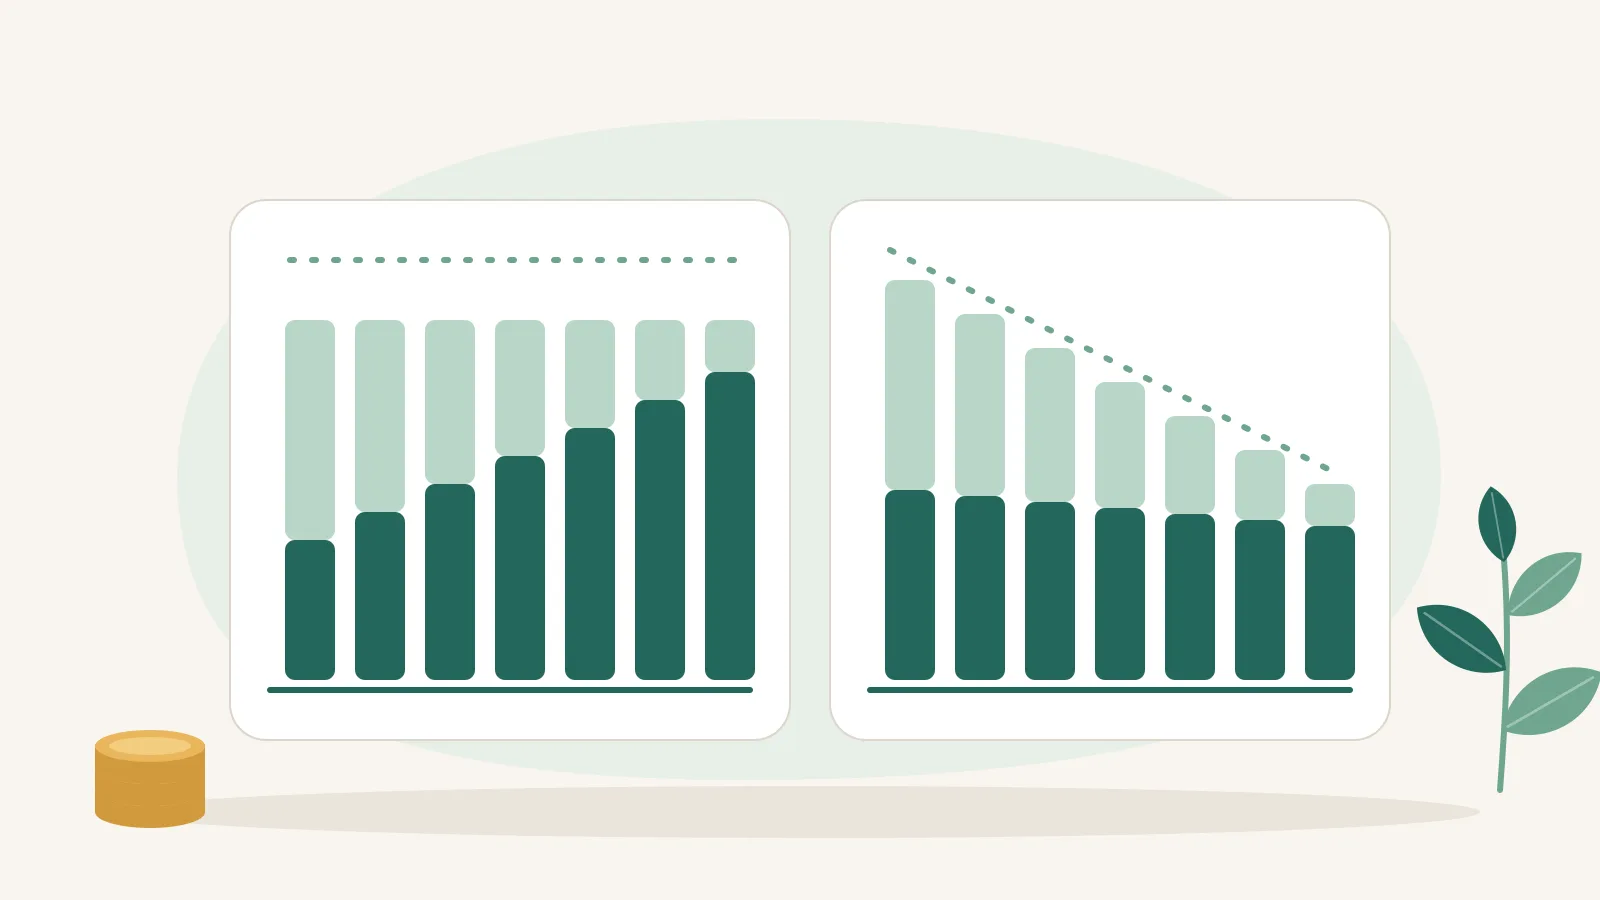
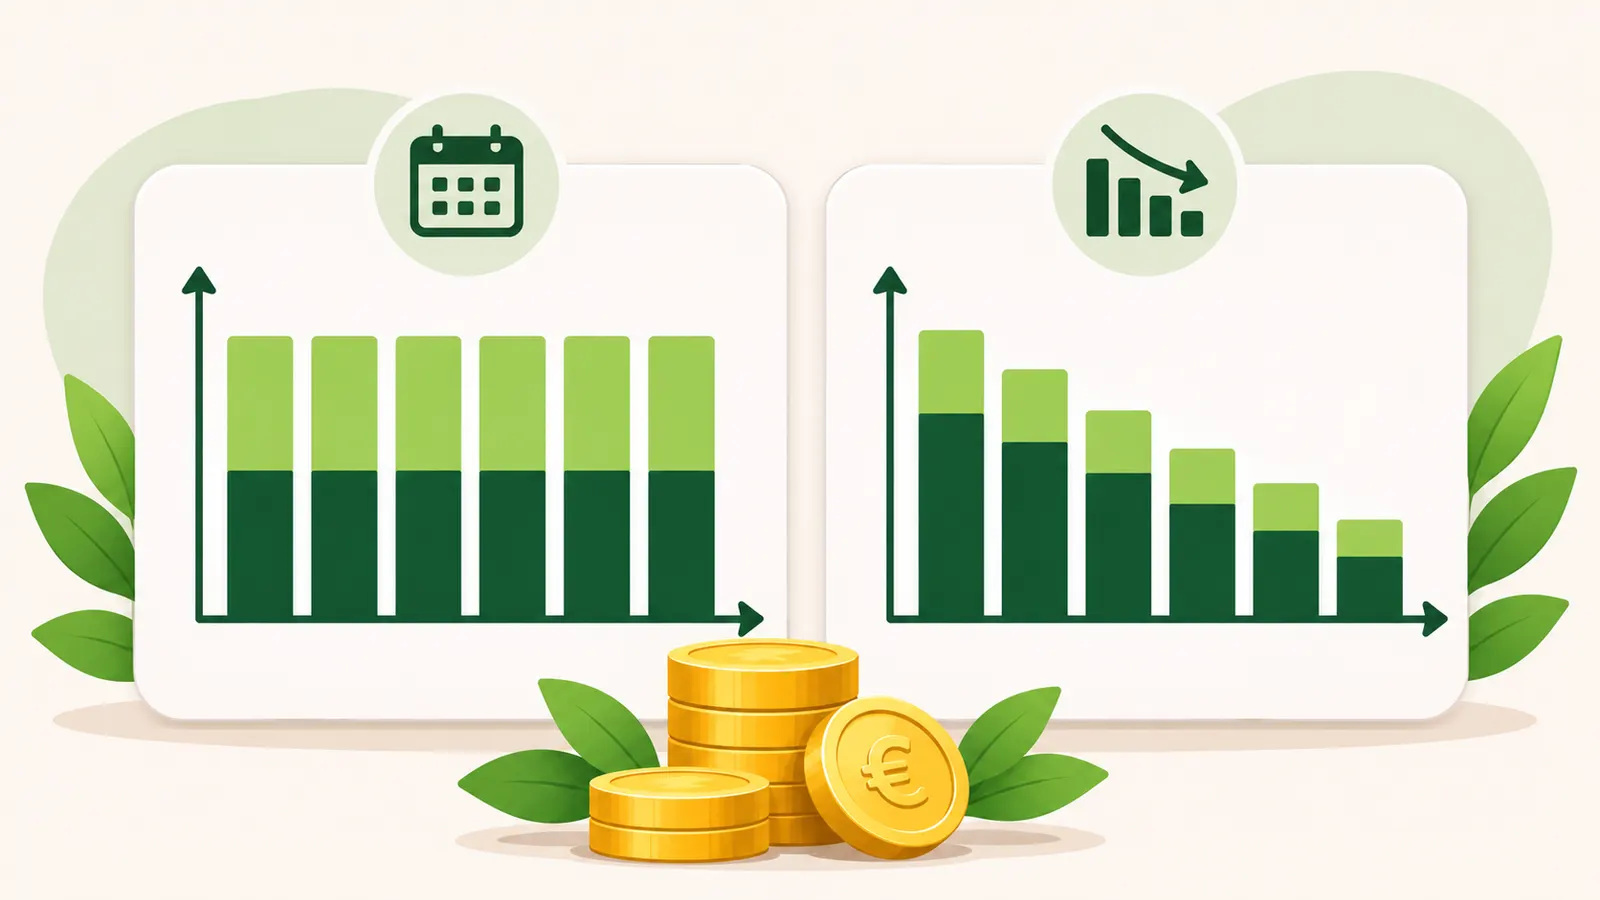
Add region, Norway, countries and new blog illustrations
- Five region illustrations shown on the country pages (one per region,
  shared by its countries) and a Norway-specific one
- Europe map on /countries, with the country search under the heading
- New illustrations for the three European blog articles
- Images converted to 1600x900 WebP; alt text for each

diff --git a/lib/images.ts b/lib/images.ts
@@ -49,15 +49,19 @@ export const pageImages: Record<string, SiteImage> = {
   },
   "/guides/apr-names-in-europe": {
     src: "/images/apr-names-in-europe.webp",
-    alt: "Flags of France, Spain, Poland, Germany, Italy and the United Kingdom next to a percent sign",
+    alt: "Loan offer cards with the flags of the EU, Germany, France, Spain and Italy, a percent sign, coins and a map of Europe",
   },
   "/guides/fixed-vs-variable-rates-europe": {
     src: "/images/fixed-vs-variable-rates-europe.webp",
-    alt: "Chart comparing a flat fixed-rate line with a variable rate that rises and falls",
+    alt: "Chart on an easel: a flat fixed-rate line marked with an anchor and a wavy variable-rate line marked with waves",
   },
   "/guides/annuity-vs-linear-repayment": {
     src: "/images/annuity-vs-linear-repayment.webp",
-    alt: "Two bar charts: equal annuity payments on the left, falling linear payments on the right",
+    alt: "Two bar charts: equal annuity repayments on the left and falling linear repayments on the right, with euro coins",
+  },
+  "/countries": {
+    src: "/images/countries.webp",
+    alt: "Map of Europe with location pins, a calculator and gold coins",
   },
   "/about": {
     src: "/images/about.webp",
@@ -75,4 +79,40 @@ export const pageImages: Record<string, SiteImage> = {
 
 export function getPageImage(path: string): SiteImage | undefined {
   return pageImages[path];
+}
+
+/** One illustration per European region, shared by that region's country pages. */
+export const regionImages: Record<string, SiteImage> = {
+  "Western Europe": {
+    src: "/images/region-western-europe.webp",
+    alt: "Canal lined with gabled townhouses and a brick bridge, with a calculator and coins on a table",
+  },
+  "Northern Europe": {
+    src: "/images/region-northern-europe.webp",
+    alt: "Red and yellow wooden houses by a calm lake with pine trees and mountains, with a calculator and coins",
+  },
+  "Southern Europe": {
+    src: "/images/region-southern-europe.webp",
+    alt: "White houses with terracotta roofs above a blue sea, an olive branch, a calculator and coins",
+  },
+  "Central and Eastern Europe": {
+    src: "/images/region-central-eastern-europe.webp",
+    alt: "Old-town square with colourful gabled houses and a clock tower, with a calculator and coins",
+  },
+  "Southeast Europe": {
+    src: "/images/region-southeast-europe.webp",
+    alt: "Stone houses with red roofs on a coastal hill with a fortress and a minaret, a boat, a calculator and coins",
+  },
+};
+
+/** Country pages with their own illustration instead of the region's. */
+const countryImages: Record<string, SiteImage> = {
+  no: {
+    src: "/images/country-norway.webp",
+    alt: "Norwegian flag above red and yellow wooden houses by a fjord, with a calculator and coins",
+  },
+};
+
+export function getCountryImage(slug: string, region: string): SiteImage | undefined {
+  return countryImages[slug] ?? regionImages[region];
 }

diff --git a/app/countries/page.tsx b/app/countries/page.tsx
@@ -3,6 +3,7 @@ import { Container } from "@/components/content-blocks";
 import { CountryCards } from "@/components/country-cards";
 import { CountrySelector } from "@/components/country-selector";
 import { JsonLd } from "@/components/json-ld";
+import { PageImage } from "@/components/page-image";
 import { countries, countriesByName, REGIONS, selectorCountries } from "@/data/countries";
 import { slugify } from "@/components/content-blocks";
 import { buildMetadata, webPageJsonLd } from "@/lib/seo";
@@ -40,7 +41,7 @@ export default function CountriesPage() {
         ]}
       />
 
-      <div className="mt-6 grid gap-8 lg:grid-cols-[minmax(0,1.1fr)_minmax(0,0.9fr)] lg:items-end">
+      <div className="mt-6 grid items-center gap-8 lg:grid-cols-[minmax(0,1fr)_minmax(0,1fr)]">
         <div>
           <h1 className="font-serif text-4xl font-semibold tracking-tight text-ink sm:text-5xl">
             Loan calculators across Europe
@@ -50,10 +51,11 @@ export default function CountriesPage() {
             format, explains how loans are quoted there and lets you calculate mortgage, personal, car, student and
             business loan repayments.
           </p>
+          <div className="mt-6 max-w-xl rounded-3xl border border-line bg-white p-5 sm:p-6">
+            <CountrySelector countries={selectorCountries()} />
+          </div>
         </div>
-        <div className="rounded-3xl border border-line bg-white p-5 sm:p-6">
-          <CountrySelector countries={selectorCountries()} />
-        </div>
+        <PageImage path="/countries" priority sizes="(min-width: 1024px) 50vw, 100vw" />
       </div>
 
       {REGIONS.map((region) => {

diff --git a/components/country-page.tsx b/components/country-page.tsx
@@ -1,4 +1,6 @@
+import Image from "next/image";
 import Link from "next/link";
+import { getCountryImage, IMAGE_HEIGHT, IMAGE_WIDTH } from "@/lib/images";
 import { ArrowRight, Info } from "lucide-react";
 import {
   countries,
@@ -69,6 +71,7 @@ export function CountryPage({ country }: { country: Country }) {
   const faqs = countryFaqs(country);
   const neighbours = countries.filter((c) => c.region === country.region && c.slug !== country.slug).slice(0, 8);
   const scenarios = countryScenarios(currency.exampleScale);
+  const image = getCountryImage(country.slug, country.region);
   // Contextual links to the European guides, each linked once per page.
   const linked = new Set<string>();
 
@@ -114,6 +117,17 @@ export function CountryPage({ country }: { country: Country }) {
             </p>
             <h1 className="mt-4 font-serif text-4xl font-semibold tracking-tight text-ink sm:text-5xl">{title}</h1>
             <p className="mt-4 max-w-2xl text-lg leading-relaxed text-muted">{country.intro}</p>
+            {image && (
+              <Image
+                src={image.src}
+                alt={image.alt}
+                width={IMAGE_WIDTH}
+                height={IMAGE_HEIGHT}
+                priority
+                sizes="(min-width: 1024px) 640px, 100vw"
+                className="mt-6 hidden h-auto w-full rounded-3xl border border-line sm:block"
+              />
+            )}
           </div>
           <aside aria-labelledby="at-a-glance" className="rounded-3xl border border-line bg-white p-6">
             <div className="flex items-center gap-3">
